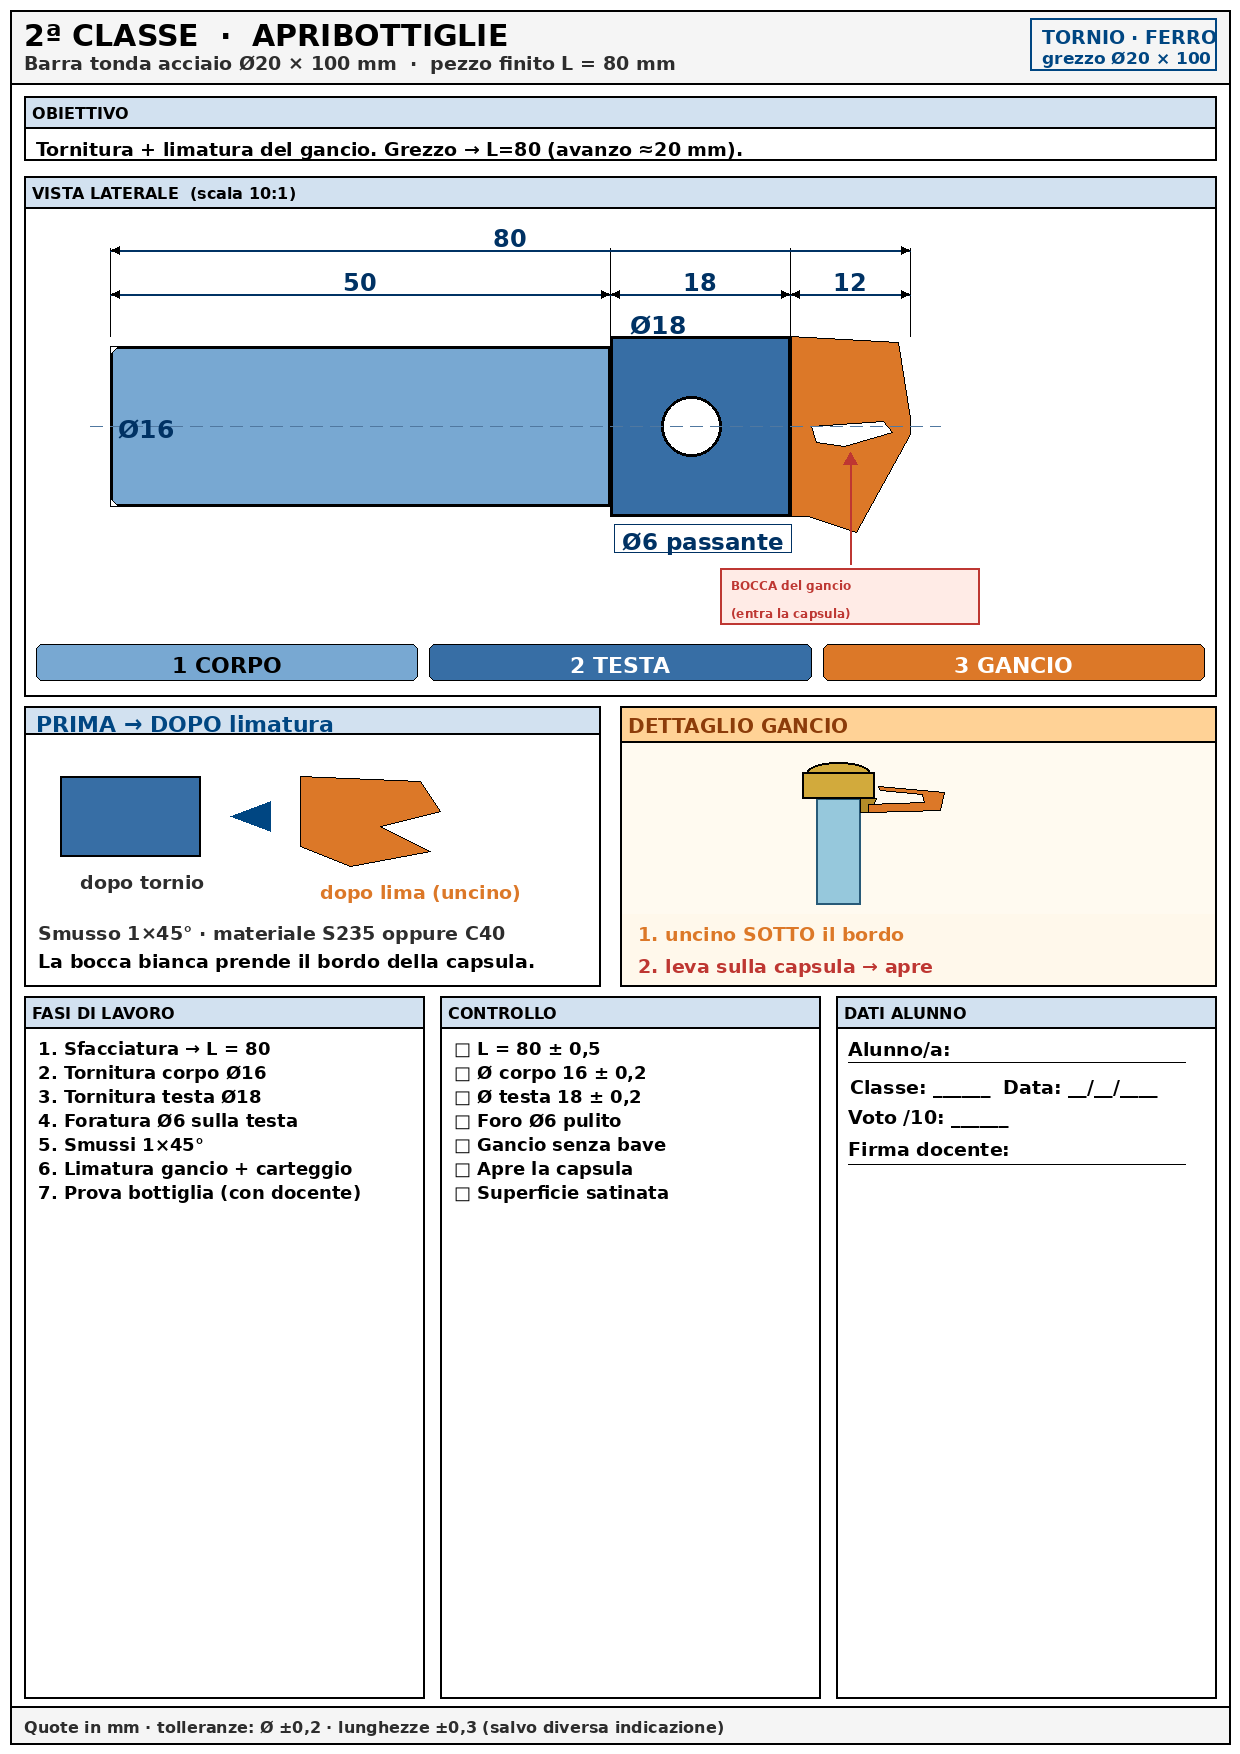
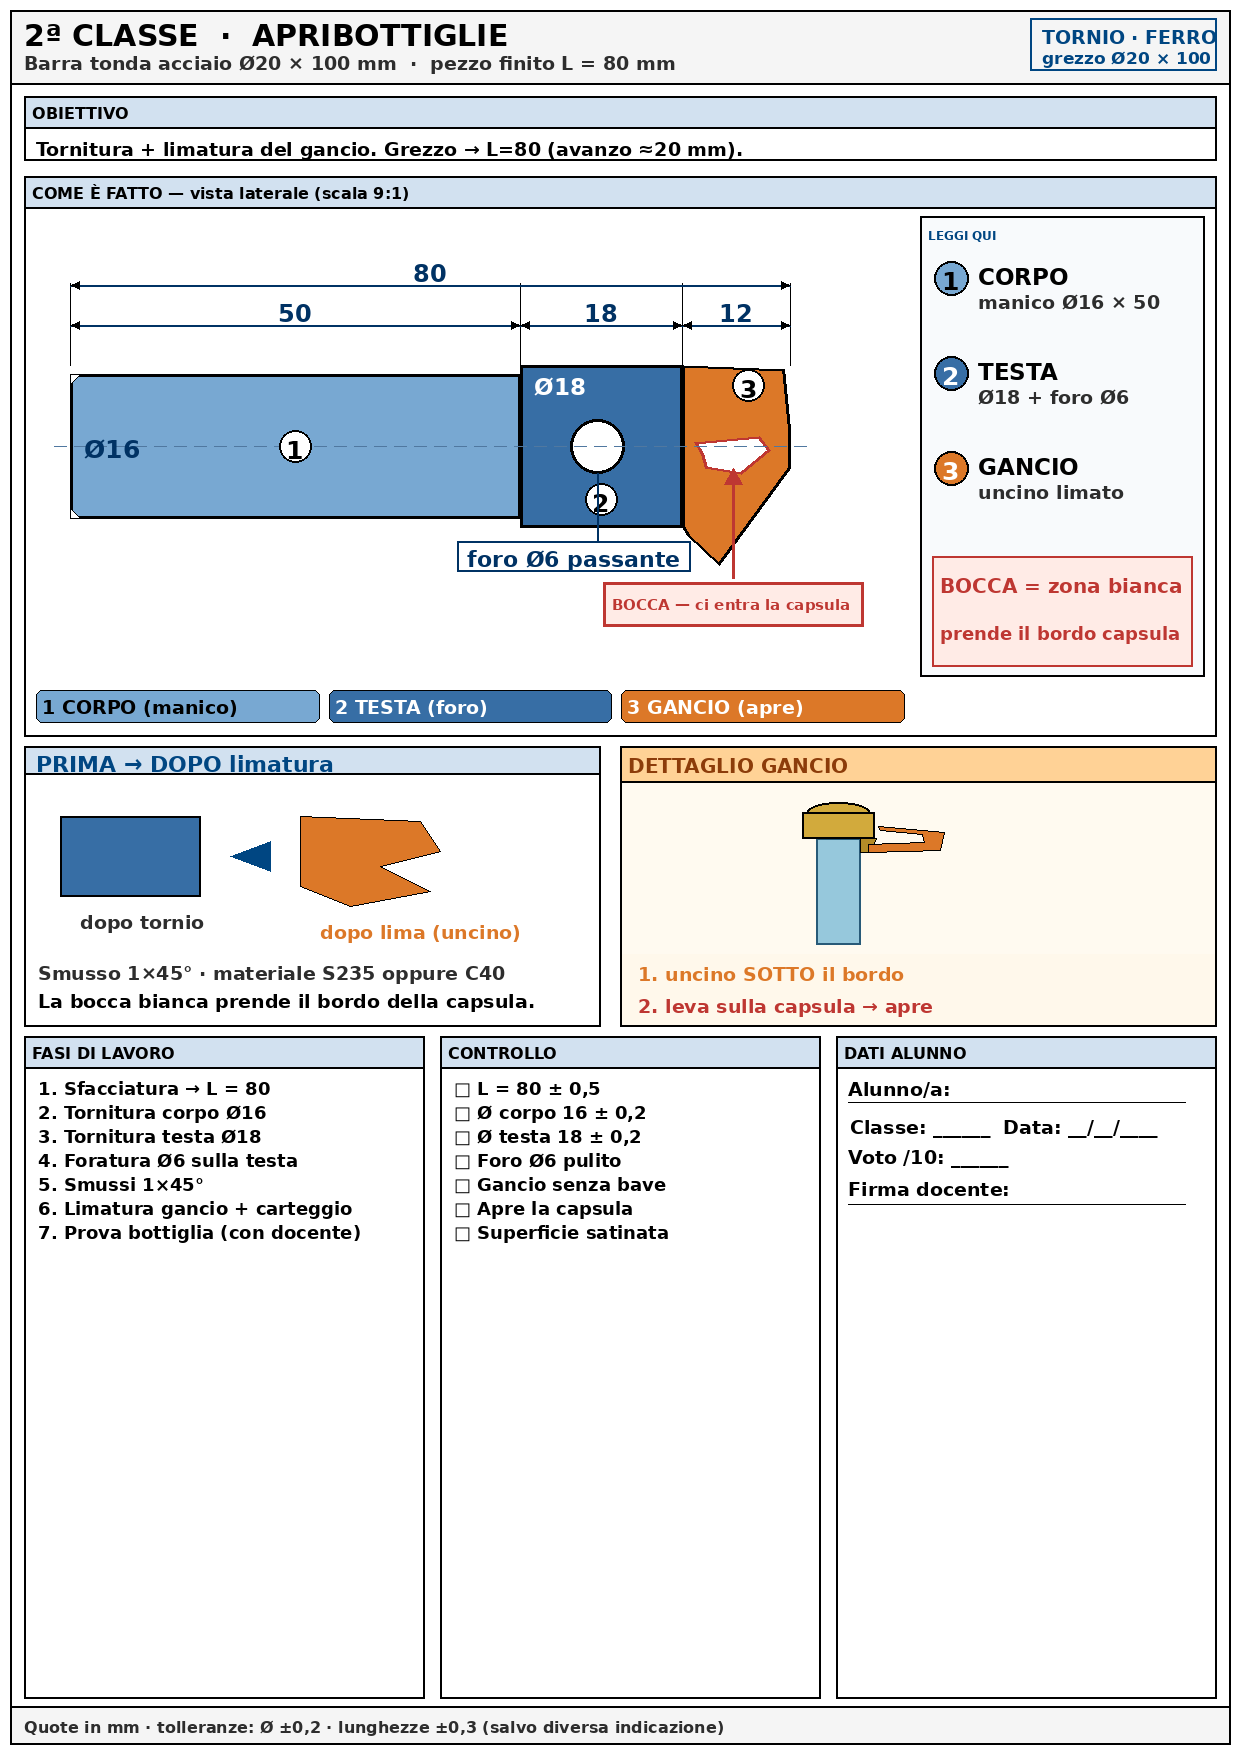
Apribottiglie più leggibile + pagina schede-visibili con nomi giusti.
Disegno con legenda 1-2-3, bocca evidenziata; galleria HTML per
vedere e scaricare le PNG (non i nomi legno portapenne/sgabello).

diff --git a/schede-visibili/index.html b/schede-visibili/index.html
@@ -1,0 +1,80 @@
+<!DOCTYPE html>
+<html lang="it">
+<head>
+  <meta charset="utf-8" />
+  <meta name="viewport" content="width=device-width, initial-scale=1" />
+  <title>Schede ferro tornio — vedi e scarica</title>
+  <style>
+    body { margin: 0; font-family: system-ui, sans-serif; background: #eef1f4; color: #111; }
+    header { padding: 16px 18px; background: #0a4a7a; color: #fff; }
+    header h1 { margin: 0 0 6px; font-size: 1.25rem; }
+    header p { margin: 0; opacity: .9; font-size: .95rem; }
+    main { padding: 14px; max-width: 900px; margin: 0 auto; }
+    article {
+      background: #fff; border: 1px solid #ccd3da; border-radius: 12px;
+      margin: 0 0 18px; overflow: hidden;
+    }
+    article h2 {
+      margin: 0; padding: 12px 14px; font-size: 1rem;
+      background: #f3f6f9; border-bottom: 1px solid #dde3ea;
+    }
+    article img { width: 100%; height: auto; display: block; background: #fff; }
+    article a {
+      display: block; padding: 12px 14px; font-weight: 600;
+      color: #0a4a7a; text-decoration: none; border-top: 1px solid #dde3ea;
+    }
+    .note { padding: 10px 14px; font-size: .9rem; color: #444; }
+  </style>
+</head>
+<body>
+  <header>
+    <h1>Schede FERRO al tornio</h1>
+    <p>Nomi giusti · apri l’immagine · tieni premuto per salvare</p>
+  </header>
+  <main>
+    <p class="note">Queste NON sono le schede legno (portapenne / sgabello). Sono i progetti in ferro.</p>
+
+    <article>
+      <h2>2ª — Apribottiglie</h2>
+      <img src="2a-apribottiglie.png" alt="Scheda 2a apribottiglie" />
+      <a href="2a-apribottiglie.png" download="2a-apribottiglie.png">Scarica 2a-apribottiglie.png</a>
+    </article>
+
+    <article>
+      <h2>3ª — Pomolo maniglia M8</h2>
+      <img src="3a-pomolo.png" alt="Scheda 3a pomolo" />
+      <a href="3a-pomolo.png" download="3a-pomolo.png">Scarica 3a-pomolo.png</a>
+    </article>
+
+    <article>
+      <h2>4ª — Cacciavite a taglio</h2>
+      <img src="4a-cacciavite.png" alt="Scheda 4a cacciavite" />
+      <a href="4a-cacciavite.png" download="4a-cacciavite.png">Scarica 4a-cacciavite.png</a>
+    </article>
+
+    <article>
+      <h2>5ª — Vite di bloccaggio M10</h2>
+      <img src="5a-vite.png" alt="Scheda 5a vite" />
+      <a href="5a-vite.png" download="5a-vite.png">Scarica 5a-vite.png</a>
+    </article>
+
+    <article>
+      <h2>Tornio — parti</h2>
+      <img src="tornio-parti.png" alt="Tornio parti" />
+      <a href="tornio-parti.png" download="tornio-parti.png">Scarica tornio-parti.png</a>
+    </article>
+
+    <article>
+      <h2>Tornio — leve</h2>
+      <img src="tornio-leve.png" alt="Tornio leve" />
+      <a href="tornio-leve.png" download="tornio-leve.png">Scarica tornio-leve.png</a>
+    </article>
+
+    <article>
+      <h2>Zigrinatura</h2>
+      <img src="zigrinatura.png" alt="Scheda zigrinatura" />
+      <a href="zigrinatura.png" download="zigrinatura.png">Scarica zigrinatura.png</a>
+    </article>
+  </main>
+</body>
+</html>

diff --git a/progetti-ferro-gallery/generate_ferro.py b/progetti-ferro-gallery/generate_ferro.py
@@ -320,55 +320,88 @@ def make_2a():
         F12, BLACK, pad=4,
     )
 
-    # ——— PANNELLO DISEGNO (solo profilo + quote + etichette) ———
+    # ——— PANNELLO DISEGNO: profilo CHIARO + legenda numerata ———
     draw_top = 176
-    draw_h = 520
-    panel(d, 24, draw_top, W - 48, draw_h, "VISTA LATERALE  (scala 10:1)")
+    draw_h = 560
+    panel(d, 24, draw_top, W - 48, draw_h, "COME È FATTO — vista laterale (scala 9:1)")
     panel_bottom = draw_top + draw_h
 
-    sc = 10.0
-    mid = draw_top + 250
-    ox = 110
+    # Riquadro spiegazione a destra (sempre leggibile)
+    info_x1, info_x2 = 920, RIGHT
+    d.rectangle([info_x1, draw_top + 40, info_x2, panel_bottom - 60], fill=(248, 250, 252), outline=BLACK, width=2)
+    text_in_box(d, info_x1, draw_top + 44, info_x2 - info_x1, 28, "LEGGI QUI", F13, ACCENT, pad=8)
+    for i, (num, col, title, desc) in enumerate(
+        [
+            ("1", STEEL, "CORPO", "manico Ø16 × 50"),
+            ("2", STEEL_D, "TESTA", "Ø18 + foro Ø6"),
+            ("3", ORANGE, "GANCIO", "uncino limato"),
+        ]
+    ):
+        yy = draw_top + 85 + i * 95
+        d.ellipse([info_x1 + 14, yy, info_x1 + 48, yy + 34], fill=col, outline=BLACK, width=2)
+        tw = d.textlength(num, font=F15)
+        d.text((info_x1 + 31 - tw / 2, yy + 5), num, fill=WHITE if i else BLACK, font=F15)
+        d.text((info_x1 + 58, yy + 2), title, fill=BLACK, font=F14)
+        text_in_box(d, info_x1 + 58, yy + 28, info_x2 - info_x1 - 70, 24, desc, F12, GRAY, pad=0)
+
+    d.rectangle([info_x1 + 12, draw_top + 380, info_x2 - 12, draw_top + 490], fill=(255, 235, 230), outline=CAP_RED, width=2)
+    text_in_box(d, info_x1 + 12, draw_top + 388, info_x2 - info_x1 - 24, 40, "BOCCA = zona bianca", F13, CAP_RED, pad=8)
+    text_in_box(d, info_x1 + 12, draw_top + 432, info_x2 - info_x1 - 24, 48, "prende il bordo capsula", F12, CAP_RED, pad=8)
+
+    # Profilo a sinistra (spazio ampio)
+    sc = 9.0
+    mid = draw_top + 270
+    ox = 70
     L_corpo, D_corpo = 50, 16
     L_testa, D_testa = 18, 18
     L_gancio = 12
     x0 = ox
     x1 = x0 + L_corpo * sc
     x2 = x1 + L_testa * sc
-    end_x = x2 + L_gancio * sc  # 110+800=910
+    end_x = x2 + L_gancio * sc
+    g = L_gancio * sc
 
     # CORPO
     cy0, cy1 = mid - D_corpo * sc / 2, mid + D_corpo * sc / 2
     d.rectangle([x0, cy0, x1, cy1], fill=STEEL, outline=BLACK, width=3)
-    d.polygon([(x0, cy0), (x0 + 8, cy0), (x0, cy0 + 8)], fill=WHITE, outline=BLACK)
-    d.polygon([(x0, cy1), (x0 + 8, cy1), (x0, cy1 - 8)], fill=WHITE, outline=BLACK)
+    d.polygon([(x0, cy0), (x0 + 10, cy0), (x0, cy0 + 10)], fill=WHITE, outline=BLACK)
+    d.polygon([(x0, cy1), (x0 + 10, cy1), (x0, cy1 - 10)], fill=WHITE, outline=BLACK)
 
     # TESTA
     ty0, ty1 = mid - D_testa * sc / 2, mid + D_testa * sc / 2
     d.rectangle([x1, ty0, x2, ty1], fill=STEEL_D, outline=BLACK, width=3)
     hole_r = 3 * sc
-    hx = x1 + L_testa * sc * 0.45
+    hx = x1 + L_testa * sc * 0.48
     d.ellipse([hx - hole_r, mid - hole_r, hx + hole_r, mid + hole_r], fill=WHITE, outline=BLACK, width=3)
 
-    # GANCIO con bocca bianca
-    g = L_gancio * sc
+    # GANCIO — forma a uncino leggibile (bocca GRANDE e vuota)
     hook_outer = [
-        (x2, ty0), (x2 + g * 0.9, ty0 + 6), (x2 + g, mid - 8), (x2 + g, mid + 8),
-        (x2 + g * 0.55, ty1 + 16), (x2 + g * 0.15, ty1), (x2, ty1),
+        (x2, ty0),
+        (x2 + g * 0.95, ty0 + 4),
+        (x2 + g, mid - 18),
+        (x2 + g, mid + 22),
+        (x2 + g * 0.35, ty1 + 38),
+        (x2 + g * 0.05, ty1 + 8),
+        (x2, ty1),
     ]
-    d.polygon(hook_outer, fill=ORANGE, outline=BLACK)
+    d.polygon(hook_outer, fill=ORANGE, outline=BLACK, width=3)
+    # Bocca = intaglio bianco a C (molto evidente)
     mouth = [
-        (x2 + g * 0.18, mid), (x2 + g * 0.78, mid - 5), (x2 + g * 0.85, mid + 6),
-        (x2 + g * 0.45, mid + 20), (x2 + g * 0.22, mid + 16),
+        (x2 + g * 0.12, mid - 4),
+        (x2 + g * 0.72, mid - 10),
+        (x2 + g * 0.82, mid + 4),
+        (x2 + g * 0.55, mid + 28),
+        (x2 + g * 0.22, mid + 22),
+        (x2 + g * 0.18, mid + 8),
     ]
-    d.polygon(mouth, fill=WHITE, outline=BLACK)
+    d.polygon(mouth, fill=WHITE, outline=CAP_RED, width=3)
     d.line([(x2, ty0), (x2, ty1)], fill=BLACK, width=3)
 
-    centerline(d, x0 - 20, end_x + 30, mid)
+    centerline(d, x0 - 16, end_x + 20, mid)
 
-    # Quote (restano sopra il pezzo, dentro il pannello)
-    q1 = ty0 - 42
-    q0 = q1 - 44
+    # Quote sopra
+    q1 = ty0 - 40
+    q0 = q1 - 40
     for xx in (x0, x1, x2, end_x):
         ext_tick(d, xx, ty0, q0 - 2)
     dim_h(d, x0, x1, q1, "50")
@@ -376,48 +409,59 @@ def make_2a():
     dim_h(d, x2, end_x, q1, "12")
     dim_h(d, x0, end_x, q0, "80")
 
-    # Diametri DENTRO l’area disegno
-    d.text((x0 + 8, mid - 12), "Ø16", fill=DIM_COL, font=F15)
-    d.text((x1 + 20, ty0 - 26), "Ø18", fill=DIM_COL, font=F15)
-    # Ø6 in riquadro sotto il foro (testo intero)
-    o6 = "Ø6 passante"
-    o6w = d.textlength(o6, font=F14) + 16
-    o6x = max(x1 + 4, min(hx - o6w / 2, x2 - o6w - 4))
-    o6y = ty1 + 8
-    d.rectangle([o6x, o6y, o6x + o6w, o6y + 28], fill=WHITE, outline=DIM_COL, width=1)
-    d.text((o6x + 8, o6y + 4), o6, fill=DIM_COL, font=F14)
+    # Diametri (dentro le zone colorate, niente overflow)
+    d.text((x0 + 14, mid - 12), "Ø16", fill=DIM_COL, font=F15)
+    d.text((x1 + 14, ty0 + 8), "Ø18", fill=WHITE, font=F14)
 
-    # Freccia + riquadro BOCCA (larghezza calcolata sul testo intero)
-    mx = x2 + g * 0.5
-    d.line([mx, mid + 28, mx, ty1 + 48], fill=CAP_RED, width=2)
-    d.polygon([(mx, mid + 26), (mx - 7, mid + 38), (mx + 7, mid + 38)], fill=CAP_RED)
-    t_b1, t_b2 = "BOCCA del gancio", "(entra la capsula)"
-    need_w = max(d.textlength(t_b1, font=F14), d.textlength(t_b2, font=F12)) + 28
-    bx_t = ty1 + 52
-    bx_b = bx_t + 56
-    bx_l = max(LEFT + 4, mx - need_w / 2)
-    bx_r = bx_l + need_w
-    if bx_r > RIGHT - 4:
-        bx_r = RIGHT - 4
-        bx_l = bx_r - need_w
-    d.rectangle([bx_l, bx_t, bx_r, bx_b], fill=(255, 235, 230), outline=CAP_RED, width=2)
-    text_in_box(d, bx_l, bx_t, bx_r - bx_l, 28, t_b1, F14, CAP_RED, pad=10)
-    text_in_box(d, bx_l, bx_t + 28, bx_r - bx_l, 26, t_b2, F12, CAP_RED, pad=10)
+    # Pallini numerati DENTRO ogni pezzo
+    def badge(cx, cy, n):
+        d.ellipse([cx - 16, cy - 16, cx + 16, cy + 16], fill=WHITE, outline=BLACK, width=2)
+        tw = d.textlength(n, font=F15)
+        d.text((cx - tw / 2, cy - 11), n, fill=BLACK, font=F15)
 
-    # Legenda pezzi: tre chip LARGHI UGUALI (testo sempre intero)
+    badge((x0 + x1) / 2, mid, "1")
+    badge((x1 + x2) / 2, mid + hole_r + 26, "2")
+    badge(x2 + g * 0.62, ty0 + 20, "3")
+
+    # Foro: richiamo sotto la testa, box largo abbastanza
+    o6 = "foro Ø6 passante"
+    o6w = d.textlength(o6, font=F13) + 20
+    o6x = max(x1, hx - o6w / 2)
+    if o6x + o6w > x2 + 8:
+        o6x = x2 + 8 - o6w
+    o6y = ty1 + 14
+    d.line([hx, mid + hole_r, hx, o6y], fill=DIM_COL, width=2)
+    d.rectangle([o6x, o6y, o6x + o6w, o6y + 30], fill=WHITE, outline=DIM_COL, width=2)
+    d.text((o6x + 10, o6y + 5), o6, fill=DIM_COL, font=F13)
+
+    # Bocca: freccia + box SOLO sotto il gancio (non sul pezzo)
+    mx = x2 + g * 0.48
+    mouth_y = mid + 26
+    boc_t = max(o6y + 40, ty1 + 55)
+    d.line([mx, mouth_y, mx, boc_t - 4], fill=CAP_RED, width=3)
+    d.polygon([(mx, mouth_y - 4), (mx - 9, mouth_y + 12), (mx + 9, mouth_y + 12)], fill=CAP_RED)
+    boc_w = 260
+    boc_l = min(max(LEFT, mx - boc_w / 2), info_x1 - boc_w - 16)
+    boc_h = 44
+    # non coprire la legenda in basso
+    if boc_t + boc_h > panel_bottom - 56:
+        boc_t = panel_bottom - 56 - boc_h
+    d.rectangle([boc_l, boc_t, boc_l + boc_w, boc_t + boc_h], fill=(255, 235, 230), outline=CAP_RED, width=3)
+    text_in_box(d, boc_l, boc_t, boc_w, boc_h, "BOCCA — ci entra la capsula", F14, CAP_RED, pad=8)
+
+    # Barra legenda in basso (testi corti, chip larghi)
     legend = [
-        ("1 CORPO", STEEL, BLACK),
-        ("2 TESTA", STEEL_D, WHITE),
-        ("3 GANCIO", ORANGE, WHITE),
+        ("1 CORPO (manico)", STEEL, BLACK),
+        ("2 TESTA (foro)", STEEL_D, WHITE),
+        ("3 GANCIO (apre)", ORANGE, WHITE),
     ]
-    tag_y = panel_bottom - 52
-    gap = 12
-    chip_w = (RIGHT - LEFT - 2 * gap) / 3
+    tag_y = panel_bottom - 46
+    gap = 10
+    chip_w = (info_x1 - 16 - LEFT - 2 * gap) / 3
     for i, (lab, fill, tcol) in enumerate(legend):
         xa = LEFT + i * (chip_w + gap)
-        d.rounded_rectangle([xa, tag_y, xa + chip_w, tag_y + 36], radius=6, fill=fill, outline=BLACK)
-        tw = d.textlength(lab, font=F13)
-        d.text((xa + (chip_w - tw) / 2, tag_y + 8), lab, fill=tcol, font=F13)
+        d.rounded_rectangle([xa, tag_y, xa + chip_w, tag_y + 32], radius=6, fill=fill, outline=BLACK)
+        text_in_box(d, xa, tag_y, chip_w, 32, lab, F12, tcol, pad=6)
 
     # ——— RIGA SOTTO: PRIMA/DOPO | DETTAGLIO ———
     row_y = panel_bottom + 10
